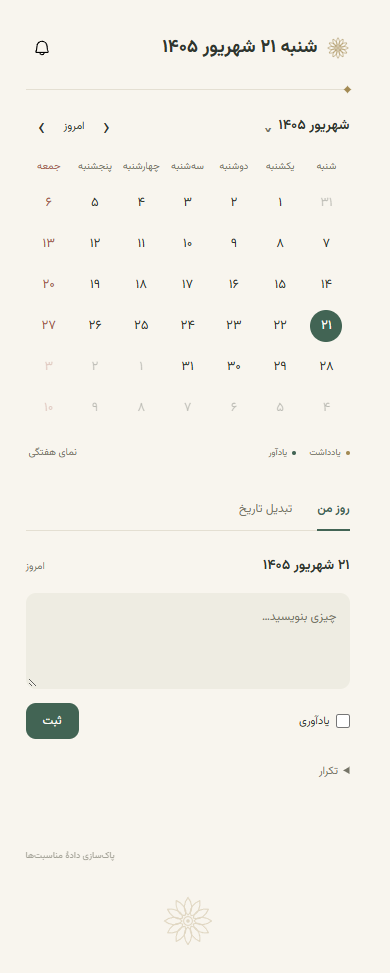
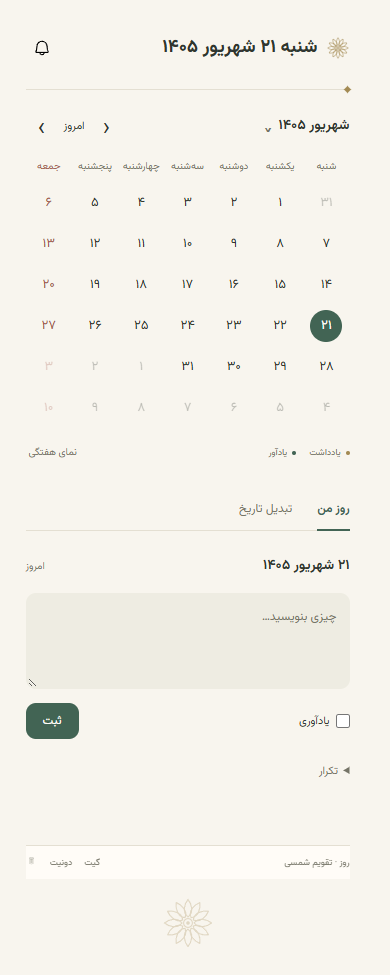
Add compact sticky footer with cache trash control

diff --git a/sidepanel.html b/sidepanel.html
@@ -7,8 +7,8 @@
   <section class="calendar-section" aria-label="تقویم"><div class="section-heading"><h2><button id="month-title" type="button" aria-expanded="false" aria-controls="month-picker" title="انتخاب ماه و سال"></button></h2><div class="navigation"><button id="prev" class="icon-button" aria-label="ماه قبل">‹</button><button id="today" class="text-button">امروز</button><button id="next" class="icon-button" aria-label="ماه بعد">›</button></div></div><div id="month-picker" class="month-picker" hidden><label for="jump-year">سال</label><select id="jump-year"></select><div id="jump-months" class="month-grid" aria-label="انتخاب ماه"></div></div><div class="weekdays" aria-hidden="true"><span>ش</span><span>ی</span><span>د</span><span>س</span><span>چ</span><span>پ</span><span>ج</span></div><div id="calendar" class="calendar" aria-label="روزهای ماه"></div><div class="legend"><span><i class="note-dot"></i>یادداشت</span><span><i class="reminder-dot"></i>یادآور</span><button id="week-toggle" class="text-button">نمای هفتگی</button></div></section>
   <div id="day-events" aria-live="polite"></div><nav class="tabs" aria-label="ابزارها"><button class="active" data-tab="day" aria-current="page">روز من</button><button data-tab="convert">تبدیل تاریخ</button></nav>
   <section id="day-panel" class="panel"><div class="section-heading"><h2 id="selected-title"></h2><span class="small" id="selected-relative"></span></div><form id="note-form"><label class="sr-only" for="note">یادداشت</label><textarea id="note" rows="3" maxlength="10000" placeholder="چیزی بنویسید…"></textarea><div class="composer-tools"><label class="remind-switch"><input id="remind-toggle" type="checkbox"><span>یادآوری</span></label><div id="reminder-time-row" hidden><div class="time-24" dir="ltr"><select id="reminder-hour" aria-label="ساعت یادآوری، ۲۴ ساعته"></select><span aria-hidden="true">:</span><select id="reminder-minute" aria-label="دقیقه یادآوری"></select></div><input id="reminder-time" type="hidden" value="09:00"></div><button id="cancel-note" type="button" class="text-button" hidden>انصراف</button><button class="primary" type="submit">ثبت</button></div><details id="repeat-options"><summary>تکرار</summary><label for="repeat-mode">تکرار</label><select id="repeat-mode"><option value="none">فقط همین روز</option><option value="daily">هر روز · روزهای پشتسرهم</option><option value="weekly">روزهای مشخص هفته</option></select><div id="repeat-days" hidden></div><div id="repeat-end-row" hidden><label for="repeat-end">پایان</label><select id="repeat-end"><option value="30">پس از ۳۰ روز</option><option value="7">پس از ۷ روز</option><option value="90">پس از ۹۰ روز</option><option value="custom">تعداد روز دلخواه</option><option value="forever">بدون پایان</option></select><input id="repeat-duration" type="number" min="1" max="36500" value="30" aria-label="تعداد روز از شروع" hidden><p class="small">از روز انتخابشده؛ شامل روز شروع</p></div><p id="repeat-edit-hint" class="small" hidden></p></details><span class="small" id="note-status" role="status"></span></form><div id="day-notes" aria-live="polite"></div></section>
-  <section id="convert-panel" class="panel" hidden><h2>یک تاریخ، دو تقویم</h2><form id="convert-form"><label for="calendar-type">تبدیل از</label><select id="calendar-type"><option value="persian">شمسی به میلادی</option><option value="gregorian">میلادی به شمسی</option></select><div class="date-selectors"><div><label for="convert-year">سال</label><select id="convert-year" required></select></div><div><label for="convert-month">ماه</label><select id="convert-month" required></select></div><div><label for="convert-day">روز</label><select id="convert-day" required></select></div></div><button class="primary" type="submit">تبدیل تاریخ</button></form><output id="convert-result" aria-live="polite"></output><button id="go-converted" class="text-button accent" hidden>رفتن به این روز در تقویم ←</button></section><div class="cache-actions"><button id="clear-events" class="text-button" title="دریافت دوباره مناسبتها از سرویس">پاکسازی دادهٔ مناسبتها</button></div>
-  </div>
+  <section id="convert-panel" class="panel" hidden><h2>یک تاریخ، دو تقویم</h2><form id="convert-form"><label for="calendar-type">تبدیل از</label><select id="calendar-type"><option value="persian">شمسی به میلادی</option><option value="gregorian">میلادی به شمسی</option></select><div class="date-selectors"><div><label for="convert-year">سال</label><select id="convert-year" required></select></div><div><label for="convert-month">ماه</label><select id="convert-month" required></select></div><div><label for="convert-day">روز</label><select id="convert-day" required></select></div></div><button class="primary" type="submit">تبدیل تاریخ</button></form><output id="convert-result" aria-live="polite"></output><button id="go-converted" class="text-button accent" hidden>رفتن به این روز در تقویم ←</button></section></div>
   <section id="alerts-panel" aria-label="اعلانها" hidden><header class="alerts-header"><button id="back-home" type="button" aria-label="بازگشت به صفحه اصلی">› <span>بازگشت</span></button><h1>اعلانها</h1></header><div class="reminder-filters" role="tablist" aria-label="یادآورها"><button id="due-tab" type="button" role="tab" aria-controls="all-reminders" data-reminder-filter="due" aria-selected="true">موعدرسیده</button><button id="upcoming-tab" type="button" role="tab" aria-controls="all-reminders" data-reminder-filter="upcoming" aria-selected="false" tabindex="-1">پیشرو<span id="upcoming-count"></span></button></div><div id="all-reminders" role="tabpanel" aria-labelledby="due-tab"></div></section>
+  <footer class="app-footer" aria-label="پیوندها و ابزارها"><span>روز · تقویم شمسی</span><nav><a href="https://github.com/alinemone/day-calendar" target="_blank" rel="noreferrer">گیت</a><span class="footer-placeholder">دونیت</span><button id="clear-events" class="footer-trash" title="پاک کردن کش مناسبتها" aria-label="پاک کردن کش مناسبتها">🗑</button></nav></footer>
   <dialog id="series-scope"><form method="dialog"><h2 id="scope-title">تغییر تکرار</h2><button value="one" class="primary">فقط این روز</button><button value="all" class="text-button">همهٔ تکرارها</button><button value="cancel" class="text-button">انصراف</button></form></dialog><div id="message" role="status" aria-live="polite" hidden></div>
 </main></body></html>

diff --git a/styles.css b/styles.css
@@ -110,3 +110,5 @@ select,input:not([type=checkbox]):not([type=hidden]){min-height:var(--control-he
 .day.selected.holiday .number{color:#fffdf7}
 
 .cache-actions{border-top:0;padding:0 0 10px;justify-content:flex-start}.cache-actions #clear-events{padding:4px 0;font-size:9px;opacity:.7}
+
+.app-footer{position:sticky;bottom:0;z-index:3;display:flex;align-items:center;justify-content:space-between;min-height:34px;padding:6px 0;background:color-mix(in srgb,var(--surface) 94%,transparent);border-top:1px solid var(--line);font-size:9px;color:var(--muted);backdrop-filter:blur(5px)}.app-footer nav{display:flex;align-items:center;gap:12px}.app-footer a,.footer-placeholder{color:var(--muted)}.app-footer a:hover{color:var(--accent)}.footer-trash{padding:3px;font-size:14px;line-height:1;color:var(--rose);opacity:.85}.footer-trash:hover{color:#8e302f}.app-footer+dialog{margin-bottom:34px}
